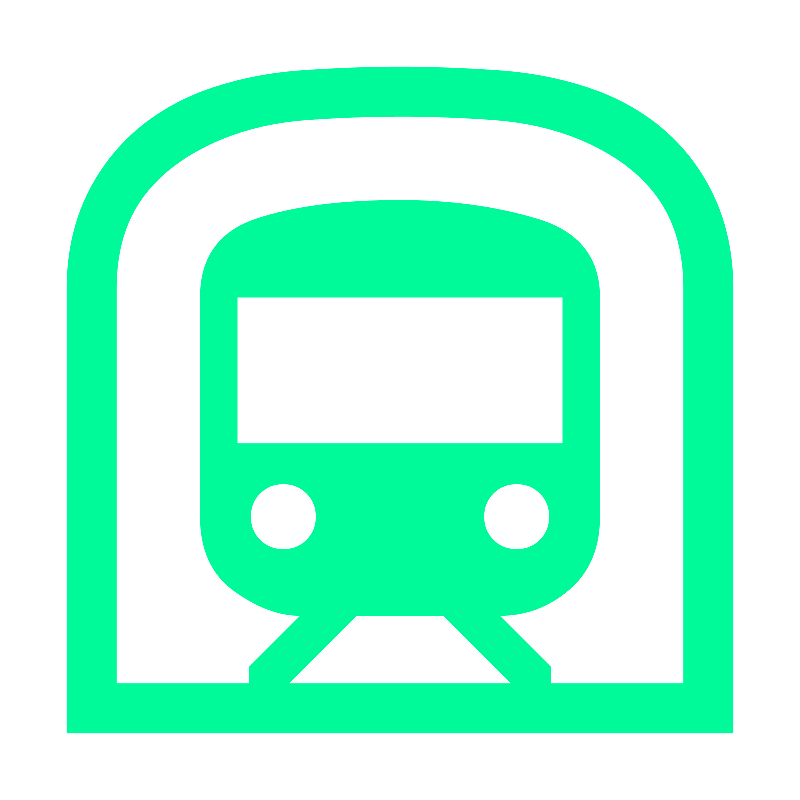
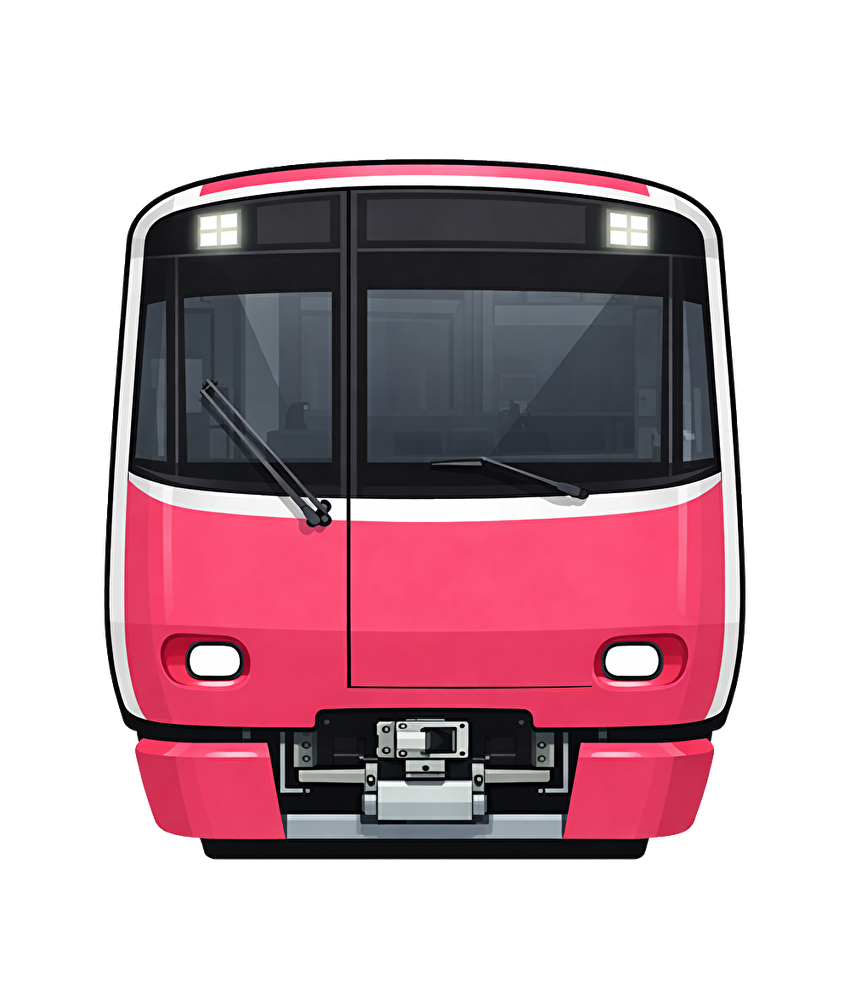
Added image slideshow functionality and styling for the main visual section

diff --git a/app/src/pages/Home.vue b/app/src/pages/Home.vue
@@ -14,6 +14,19 @@
                 <h3>今、大体列車がどこにいるのかがわかります</h3>
             </div>
         </div>
+        <div class="main-visual">
+            <div class="visual-wrapper">
+                <Transition name="slide" mode="out-in">
+                    <v-img
+                        :key="currentImage"
+                        :src="currentImage"
+                        class="main-photo border-md"
+                        alt="Main Photo"
+                        eager
+                    />
+                </Transition>
+            </div>
+        </div>
         <div class="line-section">
             <h2 class="mb-3">対応中の路線</h2>
 
@@ -135,7 +148,7 @@
 </template>
 
 <script setup lang="ts">
-import { ref, onMounted } from 'vue';
+import { ref, onMounted, onUnmounted } from 'vue';
 
 type Notice = {
     title: string;
@@ -174,7 +187,17 @@ const lines = [
     },
 ];
 
+const images = ['/retration2/main-photo.png', '/retration2/main-photo2.png'];
+const currentIndex = ref(0);
+const currentImage = ref(images[0]);
+
+let timer: ReturnType<typeof setInterval> | null = null;
+
 onMounted(async () => {
+    timer = setInterval(() => {
+        currentIndex.value = (currentIndex.value + 1) % images.length;
+        currentImage.value = images[currentIndex.value];
+    }, 5000);
     try {
         const res = await fetch('/retration2/information/retration-info.json');
         if (!res.ok) throw new Error('fetch failed');
@@ -183,6 +206,12 @@ onMounted(async () => {
         error.value = true;
     } finally {
         loading.value = false;
+    }
+});
+
+onUnmounted(() => {
+    if (timer !== null) {
+        clearInterval(timer);
     }
 });
 
@@ -214,6 +243,22 @@ const formatDate = (dateStr: string) => {
     order: 2;
     width: 200px;
     height: 200px;
+}
+
+.main-visual {
+    max-width: 1000px;
+    margin: 45px auto 0;
+    padding: 0 16px;
+}
+
+.main-photo {
+    border-radius: 12px;
+    filter: grayscale(75%) brightness(0.9) contrast(0.95);
+}
+
+.visual-wrapper {
+    width: 100%;
+    aspect-ratio: 9 / 4;
 }
 
 .main-title {
@@ -324,6 +369,21 @@ const formatDate = (dateStr: string) => {
     max-width: 1000px;
     margin: 45px auto;
     padding: 0 16px;
+}
+
+.slide-enter-active,
+.slide-leave-active {
+    transition: transform 1s ease, opacity 1s ease;
+}
+
+.slide-enter-from {
+    transform: translateX(20px);
+    opacity: 0;
+}
+
+.slide-leave-to {
+    transform: translateX(-20px);
+    opacity: 0;
 }
 
 @media (max-width: 960px) {

diff --git a/app/src/components/TrainLocation.vue b/app/src/components/TrainLocation.vue
@@ -766,7 +766,6 @@ const selectedTrainTimetableDisplay = computed(() => {
     const delaySec = selectedTrain.value?.delay ?? 0;
     const fromStation = selectedTrain.value?.fromstation ?? null;
 
-    // 時刻表に出てくる駅順
     const stationOrder = selectedTrainTimetable.value.timetable.map(
         (t) => t.station
     );
@@ -785,21 +784,17 @@ const selectedTrainTimetableDisplay = computed(() => {
             : null;
 
         return {
-            // 駅情報
             stationSame: item.station,
             stationName: station?.name ?? item.station,
 
             platform: item.platform ?? null,
 
-            // 元時刻（検証・表示用）
             rawTimeAr: item.time_ar ?? null,
             rawTimeDe: item.time_de ?? null,
 
-            // 遅延反映後
             timeAr,
             timeDe,
 
-            // 状態フラグ
             isDelayed: delaySec > 0,
             isPastStation: fromIndex !== -1 && index <= fromIndex,
         };
@@ -958,10 +953,11 @@ watch(
     background-size: contain;
     background-repeat: no-repeat;
     background-position: center;
+    transition: transform 0.4s ease, opacity 0.2s;
 }
 
 .v-card-text {
-    overflow-y: visible; /* 親の overflow を visible に */
+    overflow-y: visible;
 }
 
 .sticky-tabs {

diff --git a/app/src/pages/Comments.vue b/app/src/pages/Comments.vue
@@ -1,7 +1,7 @@
 <template>
     <v-container>
         <div class="comments-section">
-            <h2 class="mb-3">サイトに関して</h2>
+            <h2 class="mb-3">お問い合わせ</h2>
 
             <div class="site-container d-flex"></div>
 
